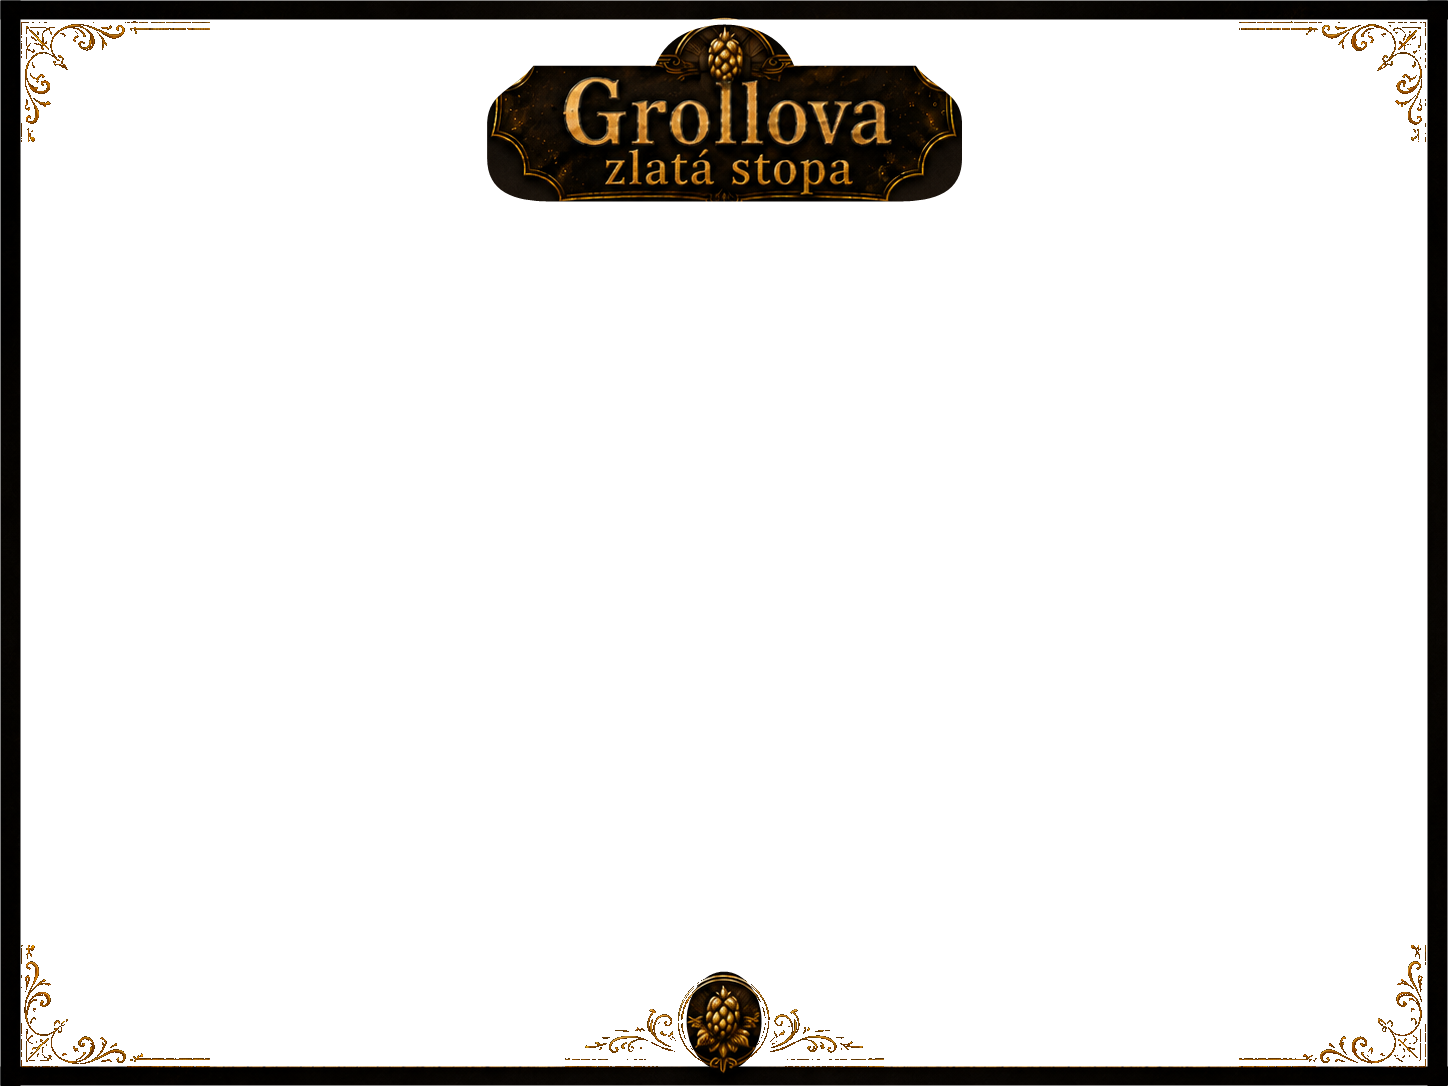
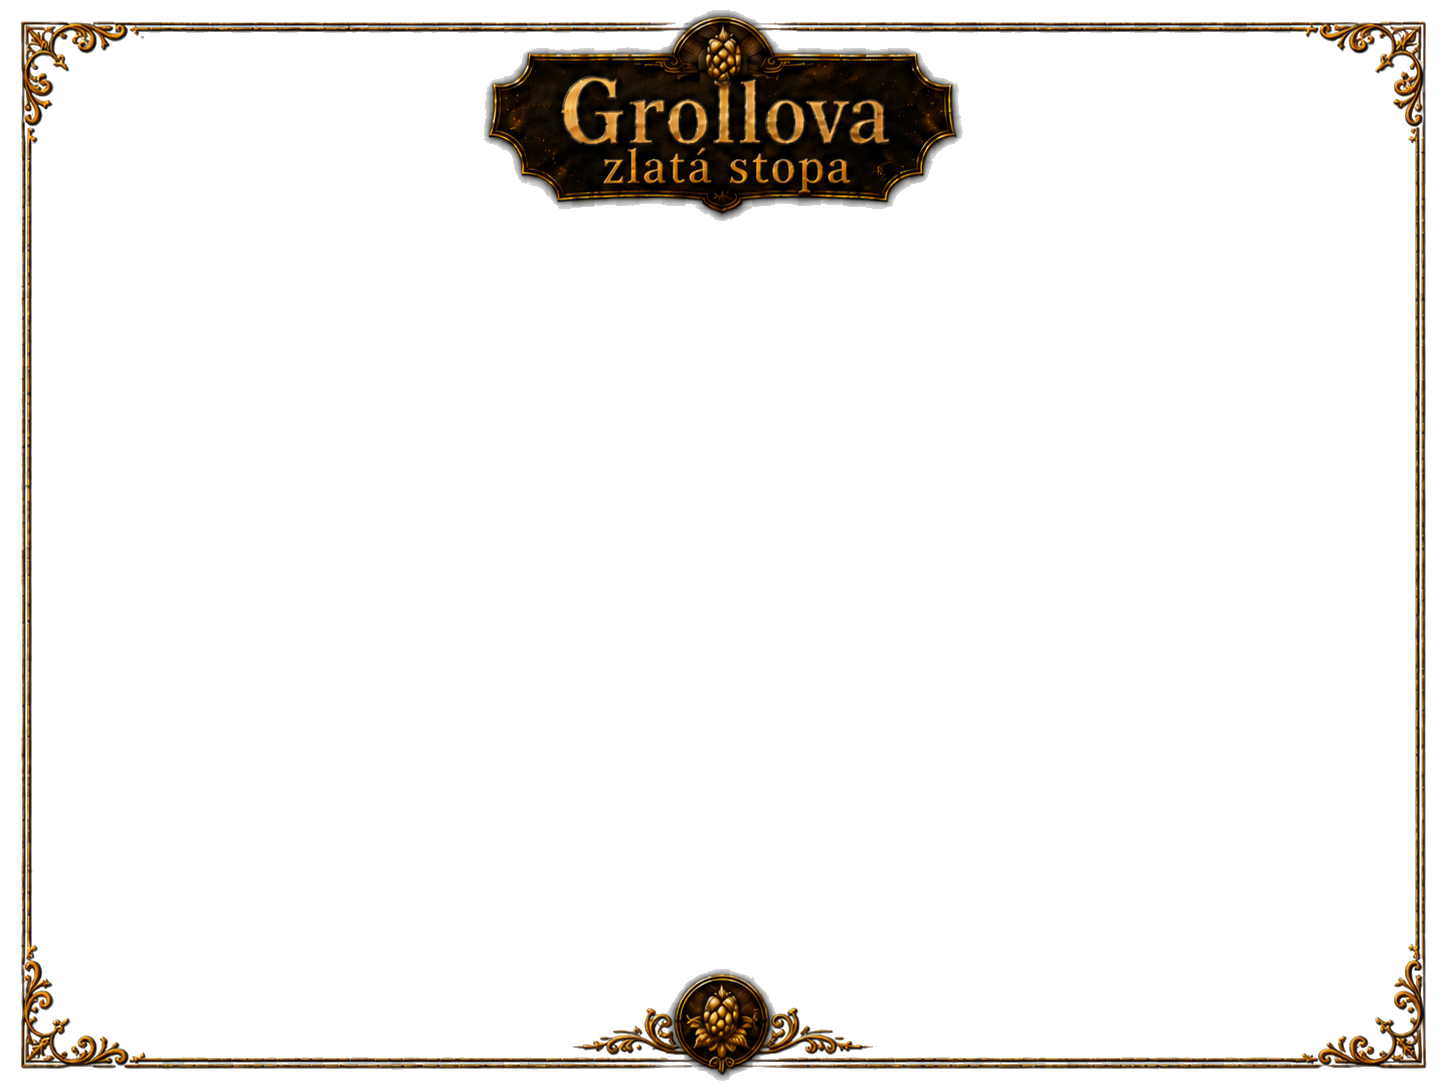
Pouzit vycisteny selfie ramecek

Changed region(s): [[0.0, 0.0, 1.0, 1.0]]

diff --git a/index.html b/index.html
@@ -255,13 +255,13 @@
   }
   </script>
   <link rel="manifest" href="manifest.webmanifest" />
-  <link rel="stylesheet" href="style.css?v=198" />
+  <link rel="stylesheet" href="style.css?v=199" />
 </head>
 <body>
   <div id="app" class="app-shell"></div>
   <div id="toast" class="toast" aria-live="polite"></div>
   <script src="game-data.js?v=194"></script>
-  <script src="app.js?v=202"></script>
+  <script src="app.js?v=203"></script>
 </body>
 </html>
 

diff --git a/sw.js b/sw.js
@@ -1,5 +1,5 @@
-const CACHE='grollova-cesta-v202-groll-selfie-frame-tight';
-const STATIC=['./','./index.html','./404.html','./style.css','./style.css?v=198','./app.js','./app.js?v=202','./game-data.js','./game-data.js?v=194','./manifest.webmanifest','./seznam-wmt-iNTy4RkzYHeUNpmhy6t8nriA2EAK4Cqz.txt','./assets/images/certifikat-bez-titulu.jpg','./assets/images/certifikat-kratka-verze.png','./assets/images/groll_uvod.jpg','./assets/images/Groll_logo_na_sirku.jpg','./assets/images/Groll_logo_na_vysku.jpg','./assets/images/groll_selfie_logo_badge.png','./assets/images/groll_selfie_frame_overlay.png','./assets/images/06_velka_synagoga_reseni_trojuhelniky.png','./assets/images/web_darkovy_voucher_fade.png','./assets/images/web_klice.jpg','./assets/images/groll_selfie_overlay.png','./assets/images/selfie_frame_landscape.png','./assets/images/selfie_frame_team_wide.png'];
+const CACHE='grollova-cesta-v203-groll-selfie-frame-clean';
+const STATIC=['./','./index.html','./404.html','./style.css','./style.css?v=199','./app.js','./app.js?v=203','./game-data.js','./game-data.js?v=194','./manifest.webmanifest','./seznam-wmt-iNTy4RkzYHeUNpmhy6t8nriA2EAK4Cqz.txt','./assets/images/certifikat-bez-titulu.jpg','./assets/images/certifikat-kratka-verze.png','./assets/images/groll_uvod.jpg','./assets/images/Groll_logo_na_sirku.jpg','./assets/images/Groll_logo_na_vysku.jpg','./assets/images/groll_selfie_logo_badge.png','./assets/images/groll_selfie_frame_overlay.png','./assets/images/06_velka_synagoga_reseni_trojuhelniky.png','./assets/images/web_darkovy_voucher_fade.png','./assets/images/web_klice.jpg','./assets/images/groll_selfie_overlay.png','./assets/images/selfie_frame_landscape.png','./assets/images/selfie_frame_team_wide.png'];
 self.addEventListener('install',e=>{e.waitUntil(caches.open(CACHE).then(c=>c.addAll(STATIC)).then(()=>self.skipWaiting()))});
 self.addEventListener('activate',e=>{e.waitUntil(caches.keys().then(keys=>Promise.all(keys.filter(k=>k!==CACHE).map(k=>caches.delete(k)))).then(()=>self.clients.claim()))});
 self.addEventListener('fetch',e=>{